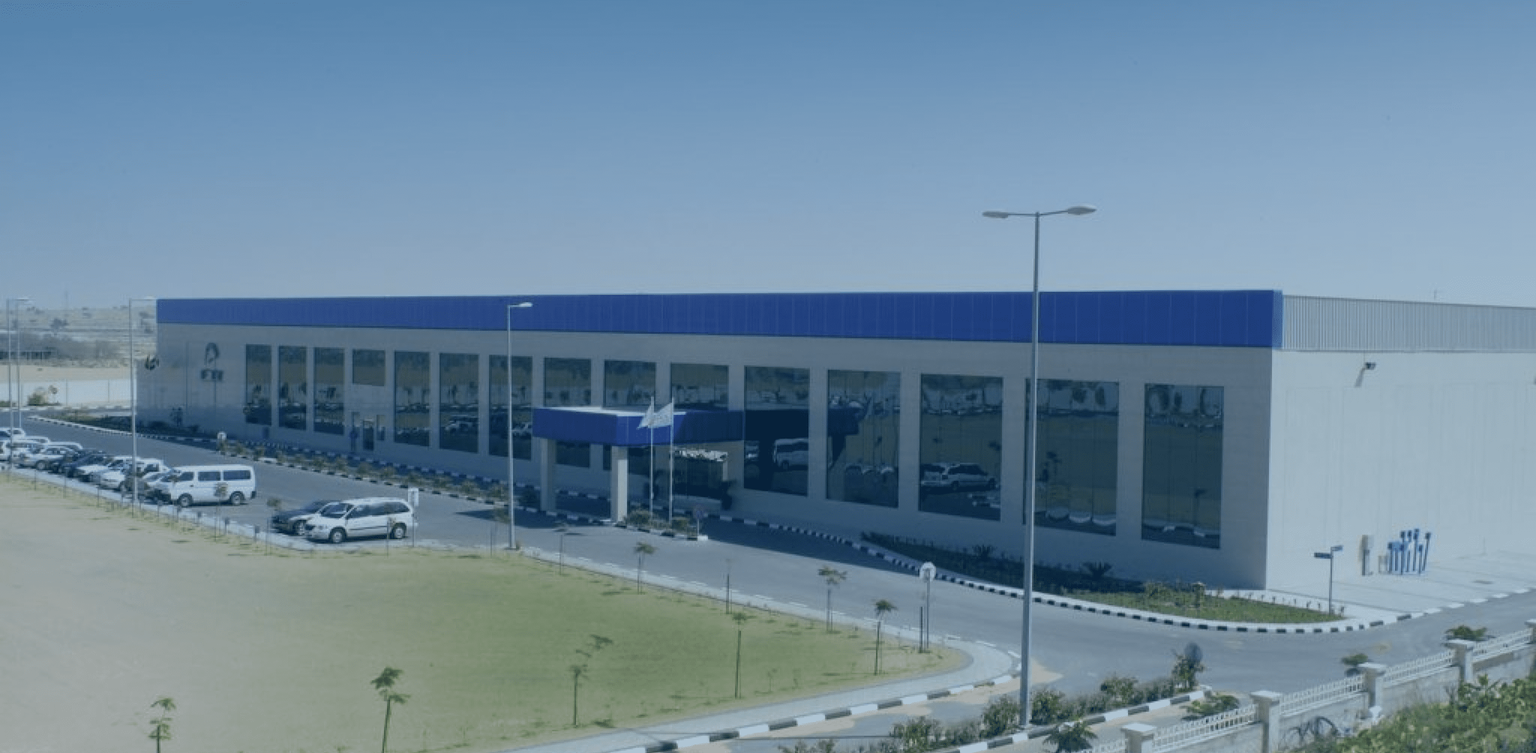
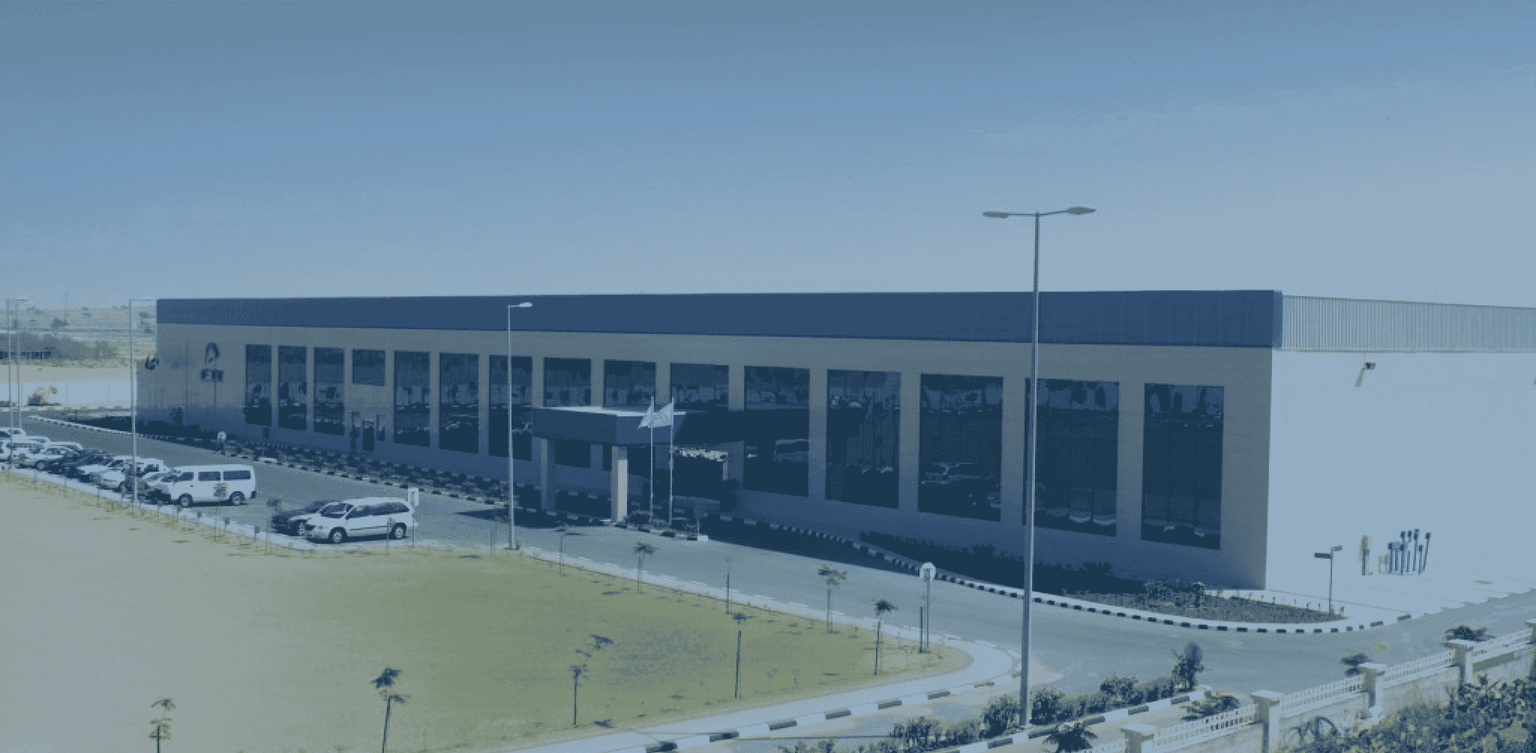
compress images added

diff --git a/src/component/animation/Home.js b/src/component/animation/Home.js
@@ -3,7 +3,7 @@ import "./style.css";
 
 import Train from "./new1.png";
 import HomeNew from "./new2.png";
-import Homes from "./balazs-busznyak-El5zuQAtfeo-unsplash.jpg";
+import Homes from "./balazs-busznyak-El5zuQAtfeo-unsp.jpg";
 import Bg from "./BlackBg.jpg";
 
 const Home = () => {
